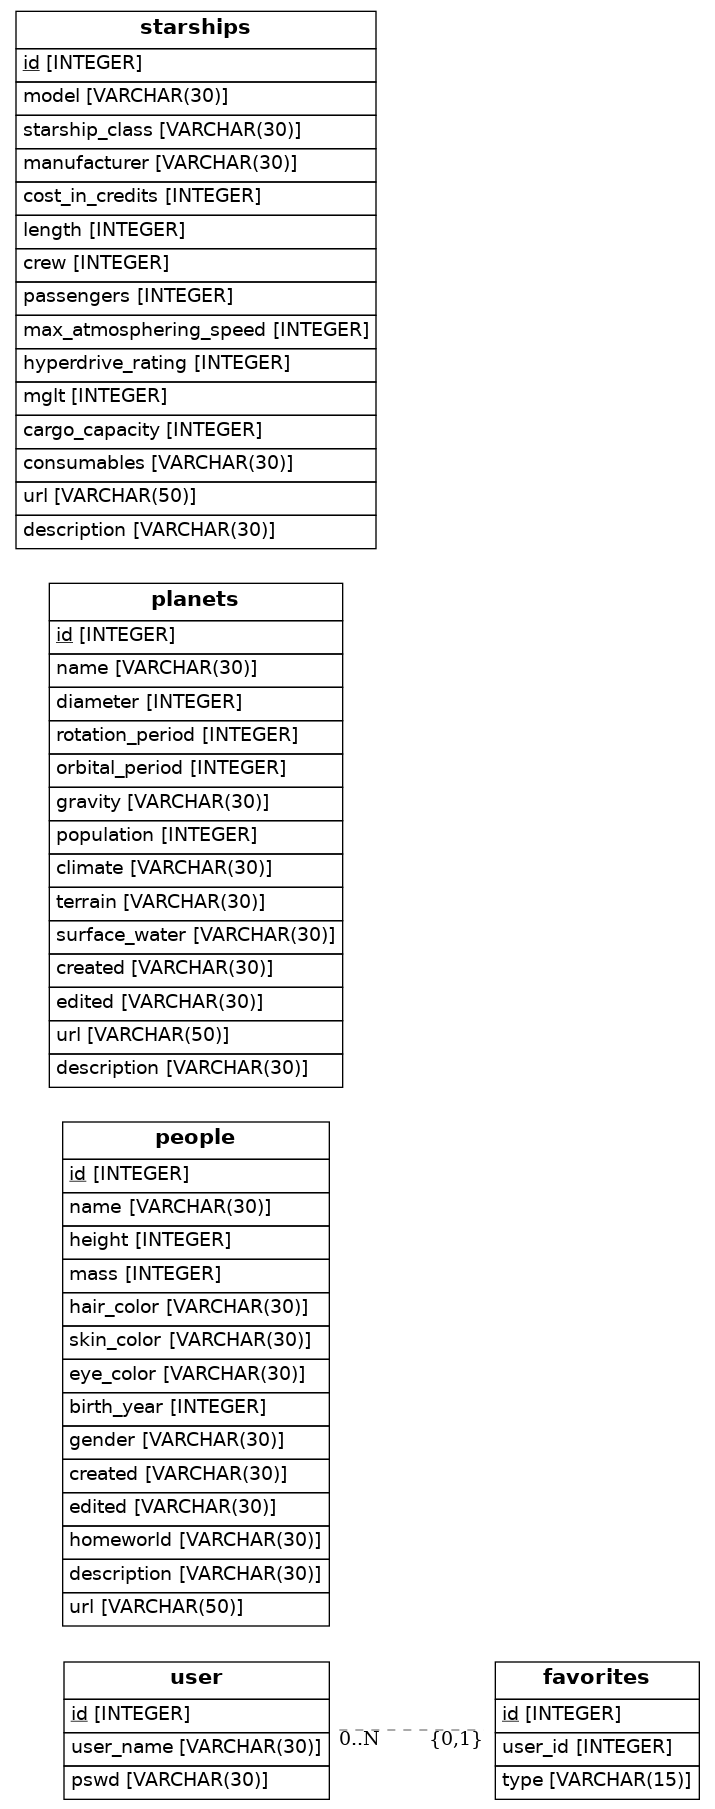
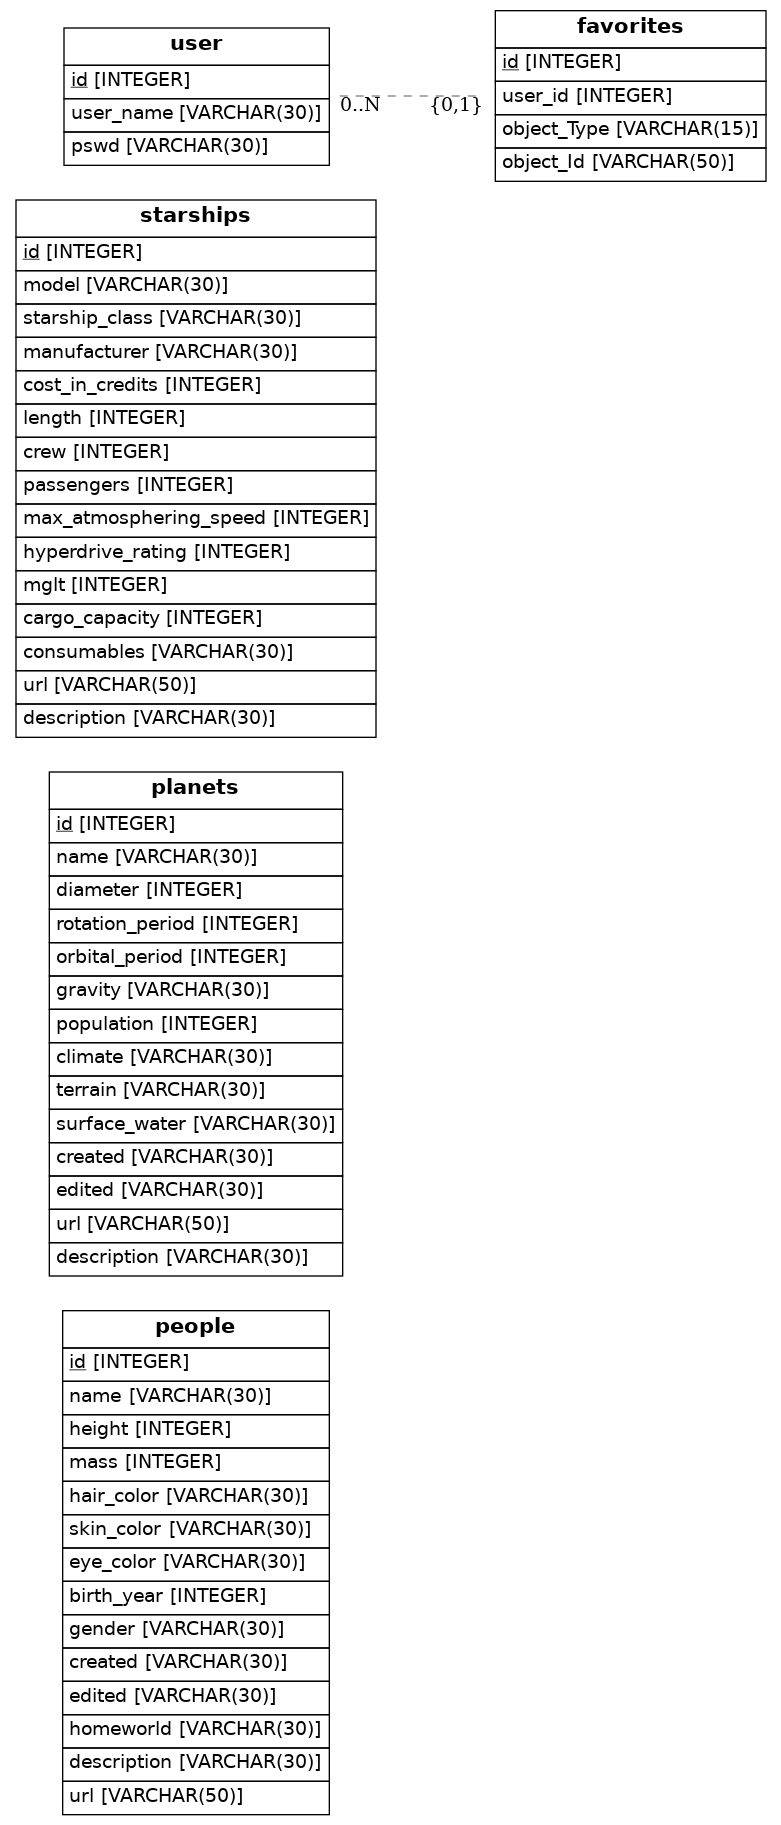
Star Wars Data Modeling - K.Mendez

Changed region(s): [[0.0, 0.0, 0.5231, 1.0], [0.5231, 0.0, 0.9846, 0.0929], [0.6769, 0.8977, 0.9846, 1.0]]

diff --git a/src/models.py b/src/models.py
@@ -8,13 +8,6 @@ from eralchemy import render_er
 
 Base = declarative_base()
 
-class User(Base):
-    __tablename__ = 'user'
-    # Define the structure of the user table
-    id = Column(Integer, primary_key = True)
-    user_name = Column(String(30), nullable=False)
-    pswd = Column(String(30), nullable=False)
-
 class People(Base):
     __tablename__ = 'people'
     # Define the structure of the people table
@@ -74,12 +67,20 @@ class Favorites(Base):
     __tablename__ = 'favorites'
     id = Column(Integer, primary_key=True)
     user_id = Column(Integer, ForeignKey('user.id'))
-    user = relationship(User)
-    
-    type = Column(String(15))
+    object_Type = Column(String(15))
+    object_Id = Column(String(50))
 
     def to_dict(self):
         return {}
+
+
+class User(Base):
+    __tablename__ = 'user'
+    # Define the structure of the user table
+    id = Column(Integer, primary_key = True)
+    user_name = Column(String(30), nullable=False)
+    pswd = Column(String(30), nullable=False)
+    favorites = relationship(Favorites)
 
 ## Draw from SQLAlchemy base
 render_er(Base, 'diagram.png')
